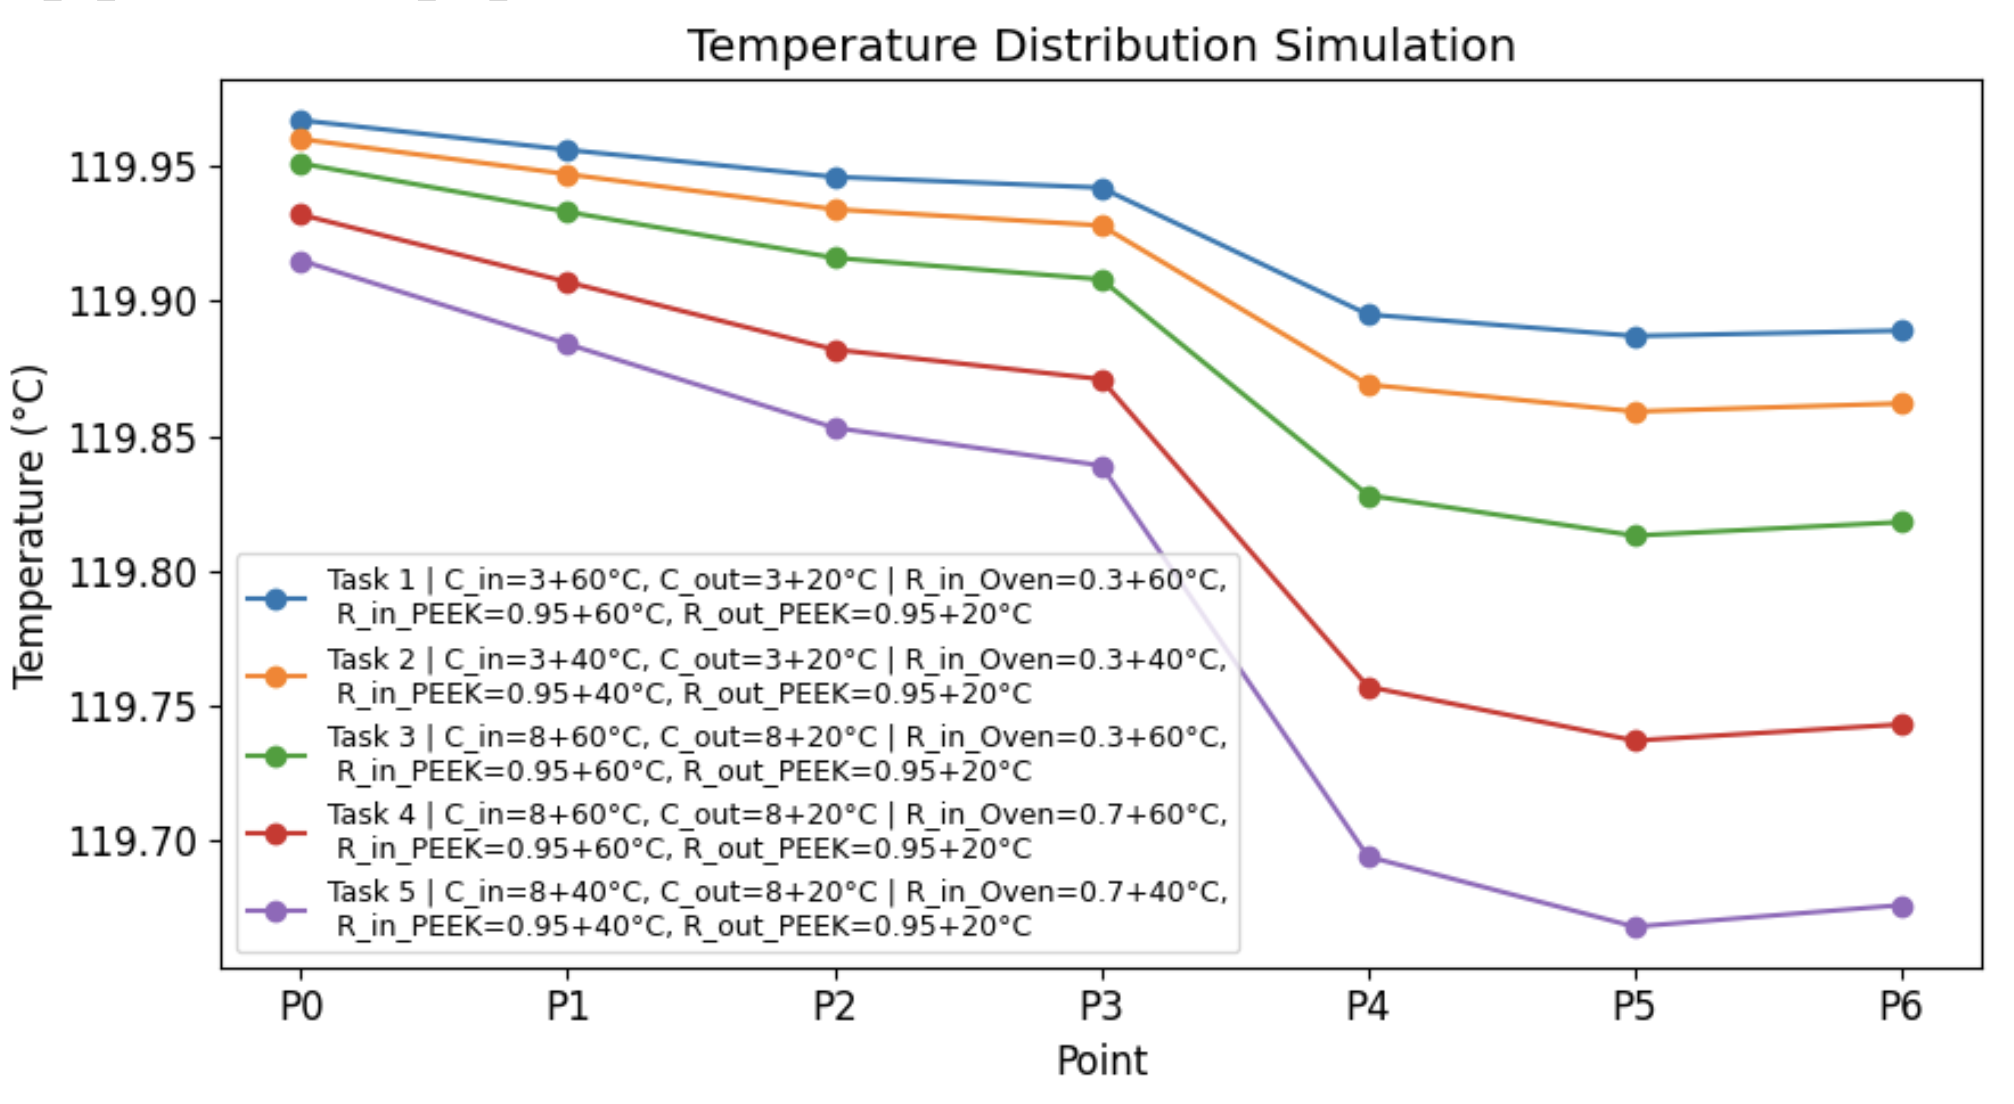
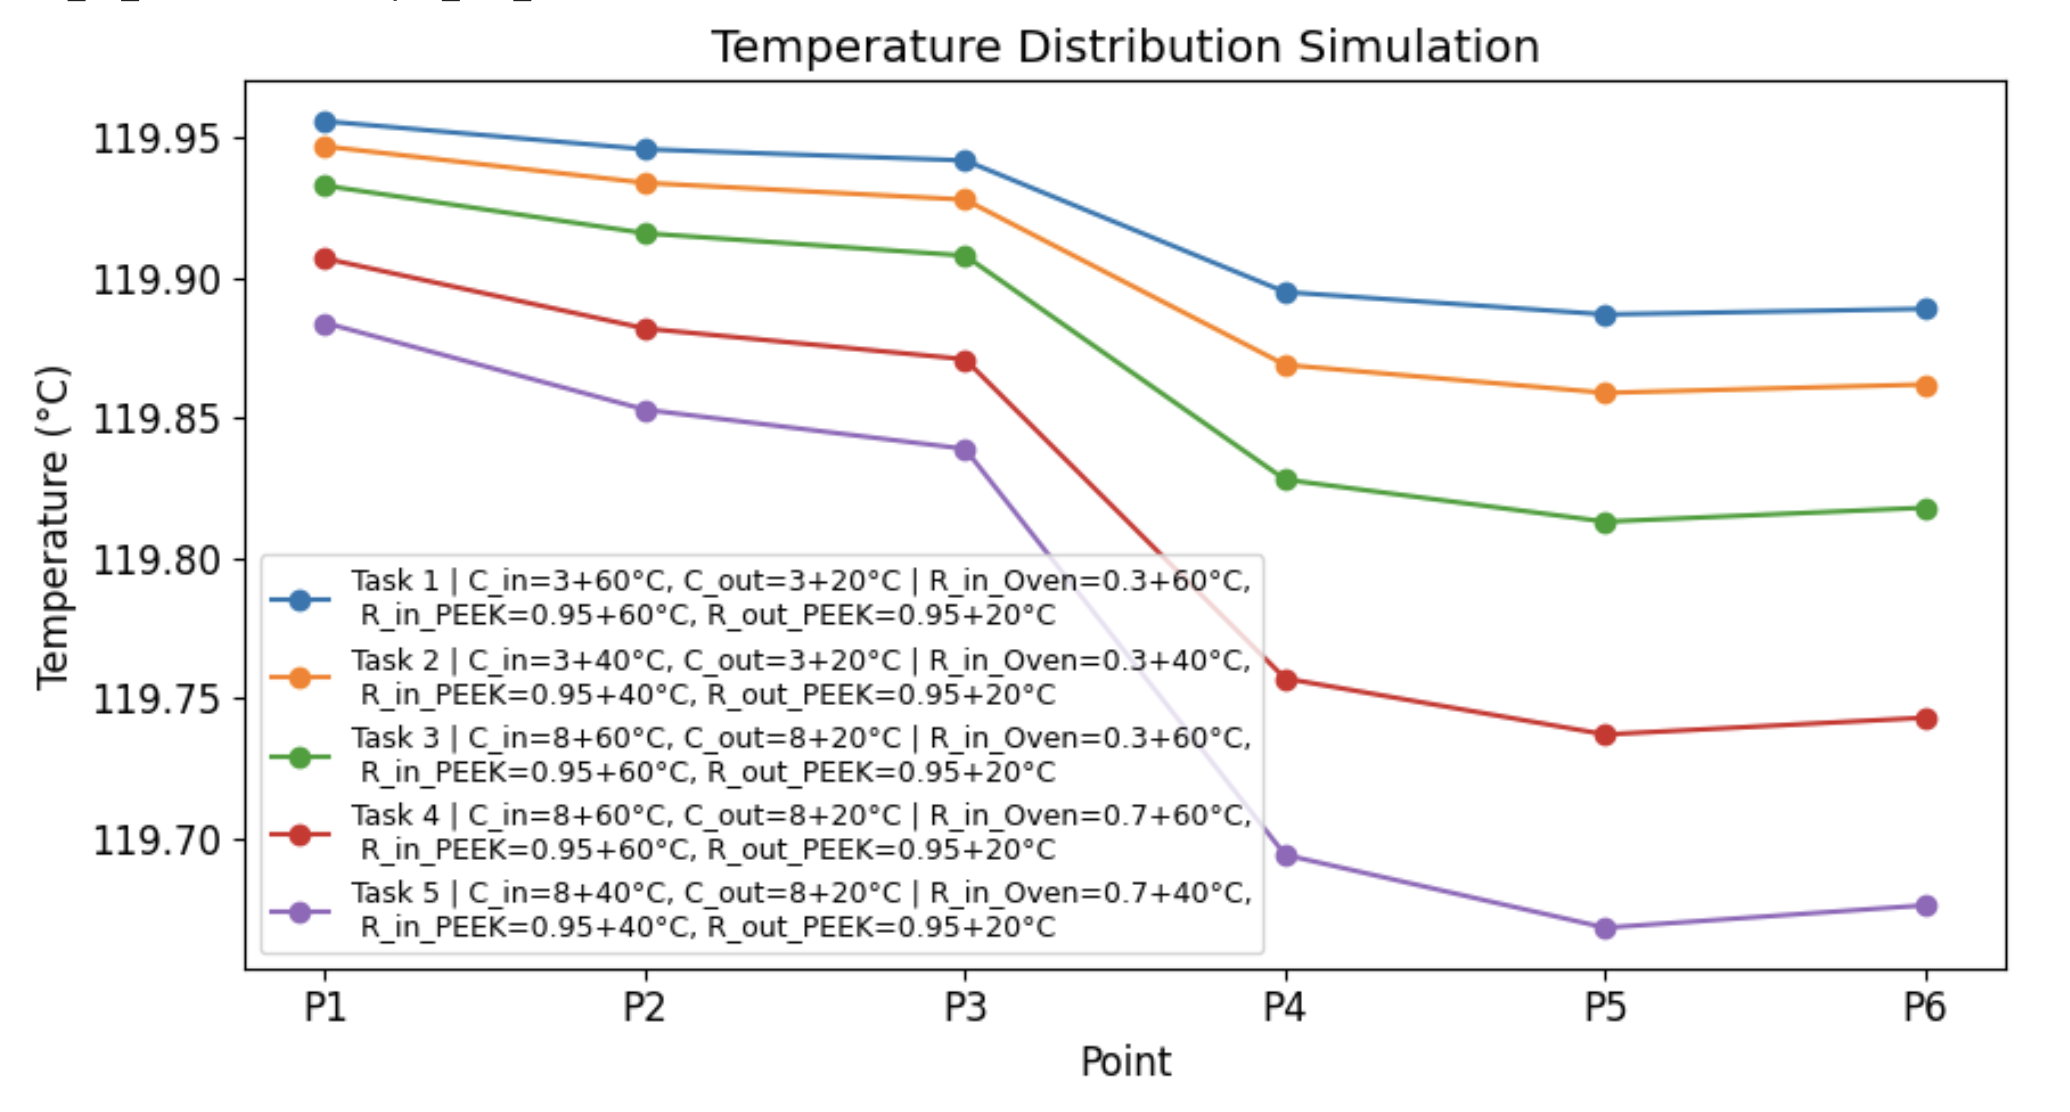
GITBOOK-42: No subject

Changed region(s): [[0.0, 0.0, 0.9851, 0.9855]]

diff --git a/oven-heating/simplified-oven-thermal-simulation.md b/oven-heating/simplified-oven-thermal-simulation.md
@@ -22,21 +22,21 @@ There are three load types which can be used as heat source:
 * Heat source
 * Internal heat
 
-In our case, the temperature sensor is placed inside a pinhole at lower part of oven with a stable temperature controlled by PID temperature controller. As an approximation, choose applied temperature and apply it on a square area at the oven bottom which corresponds to the contact area against the heater. For the area on PEEK base against heater bottom, we could also add heating effect, but this is not our focus, here, we apply the same thermal load as on the bottom of oven.
+In our setup, the temperature sensor is placed inside a pinhole at lower part of oven with a stable temperature controlled by PID temperature controller. As an approximation, choose applied temperature and apply it on a square region at the oven bottom which corresponds to the contact area with the heater. For the area on PEEK base in contact with heater bottom, we could also add heating effect, but this is not our focus, here, we apply the same thermal load as we did at the bottom of oven.
 
 <div><figure><img src="../.gitbook/assets/applied_temperature_1.png" alt=""><figcaption></figcaption></figure> <figure><img src="../.gitbook/assets/applied_temperature_2.png" alt=""><figcaption></figcaption></figure></div>
 
-Caption: Applied temperature is set for area which the heater directly heat, in actual case, the temperature of heater surface is not perfectly evenly distributed, as a approximation, we treat these areas as isothermal.&#x20;
+Caption: Applied temperature is set for area which the heater directly heat, in actual case, the temperature of heater surface is not perfectly evenly distributed, as a simplfying approximation, we treat these areas as isothermal.&#x20;
 
 ### Choose Material
 
 Choose corresponding materials in material property setting.
 
-<figure><img src="../.gitbook/assets/simulation_material.png" alt=""><figcaption></figcaption></figure>
+<figure><img src="../.gitbook/assets/simulation_material.png" alt="" width="563"><figcaption></figcaption></figure>
 
 ### Heat Loss
 
-To reach a thermal equillibrium state, besides heating source, there must be heat loss as well. There are two major sources of heat loss.&#x20;
+To reach a thermal equillibrium state, besides heating source, there must be heat loss. There are two major sources of heat loss.&#x20;
 
 * Convective heat transfer: Heat exchange with its ambient environment which is air in our case
 * Natural thermal radiation
@@ -90,9 +90,9 @@ For still air, the heat transfer coefficient (convection value in Fusion setting
 
 #### Selection of Applied Faces&#x20;
 
-The oven is largely covered by PEEK insulation with some gap in between and a small area directly exposed to air. The state of air flow inside this semi-closed structure is unknown and might be quite complex. Therefore, as an approximation, I treat the air convection states of air outside and inside the PEEK as same, that's to say, the convection coefficients applied on surfaces of both external and internal are same.&#x20;
+The oven is largely enclosed by PEEK insulation, with small gaps between components and a limited surface area directly exposed to ambient air. The airflow conditions within this semi-closed structure are uncertain and may be complex. Therefore, as a simplifying approximation, the convective heat transfer conditions inside and outside the PEEK enclosure are treated as identical. In other words, the same convection coefficient is applied to both internal and external surfaces.
 
-As to the configuration of ambient temperature, considering the temperature in between PEEK and oven higher than outside of PEEK, it's reasonable to set a higher ambient temperature for faces inside the PEEK, including internal faces of PEEK and all faces of oven.
+Regarding the ambient temperature configuration, the air temperature in the region between the PEEK insulation and the oven is expected to be higher than that of the external environment. It wold be reasonable to assign a higher ambient temperature to surfaces located inside the PEEK enclosure, including the internal faces of the PEEK and all surfaces of the oven.
 
 {% columns %}
 {% column %}
@@ -116,7 +116,7 @@ As to the configuration of ambient temperature, considering the temperature in b
 {% endcolumn %}
 {% endcolumns %}
 
-Caption: for surfaces inside the PEEK insulation, we treat their convection coefficient same as outside, but with different ambient temperature assignments. As screw components are missing from the model, inner surfaces of screw holes are excluded.
+Caption: for surfaces inside the PEEK insulation, we treat their convection coefficient same as outside, but with different ambient temperature assignments. Since screw components are missing from the model, inner surfaces of screw holes are excluded.
 
 ### Add Radiation Effect
 
@@ -145,7 +145,7 @@ For PEEK, we could take emissivity as 0.95 \[ref.4]
 
 #### Selection of Applied Faces
 
-This step is very similar as in convection process. According to the difference of temperature experienced by surfaces inside and outside the PEEK, I set difference ambient temperatures for them.
+This procedure is very similar to the convection setup described previously. Based on the temperature differences experienced by surfaces located inside and outside the PEEK enclosure, different ambient temperatures are assigned accordingly.
 
 {% columns %}
 {% column %}
@@ -260,7 +260,9 @@ And corresponding plot:
 
 ## Conclusion
 
+The simulation results demonstrate that the thermal distribution is sensitive to both convective and radiative heat transfer parameters. The observed trends are physically reasonable; for example, increasing the convective heat transfer coefficient leads to lower surface temperatures.
 
+Among the six probe points considered, **P1** exhibits the highest temperature. **P3** is a critical location for evaluating the temperature gradient along the crystal cavity. **P5** and **P6** experience similarly lower temperatures; therefore, for practical considerations related to thermistor attachment, **P6** is selected as the third thermistor placement location.
 
 ### Some further improvements
 
@@ -272,11 +274,9 @@ The model we use is a bit different from the real one, a closer model would impr
 
 As we've discussed, the oven is partially covered by a semi-closed PEEK container, surfaces directly exposed to outside air across a gap in the middle of PEEK definitely experience different convection conditions and radiation ambient temperatures from surfaces at deep corners inside the oven and PEEK. It would be better to split the oven surface into more fine faces and assign them more different and reasonable configurations.&#x20;
 
+Additionally it's not clear how the contact detection tolerance setting affect the simulation result, it would be beneficial to vary this value and study its influence on simulation result.&#x20;
 
-
-
-
-
+Currently, in the simulation results view in Fusion, the temperature color bar is applied globally to all body components. When the PEEK body is hidden and the temperature distribution on the oven body alone is examined, the color scale remains constrained to the original narrow range. As a result, the temperature variation on the oven body is not rendered intuitively. This issue may be related to software limitations or computater performance.
 
 
 
